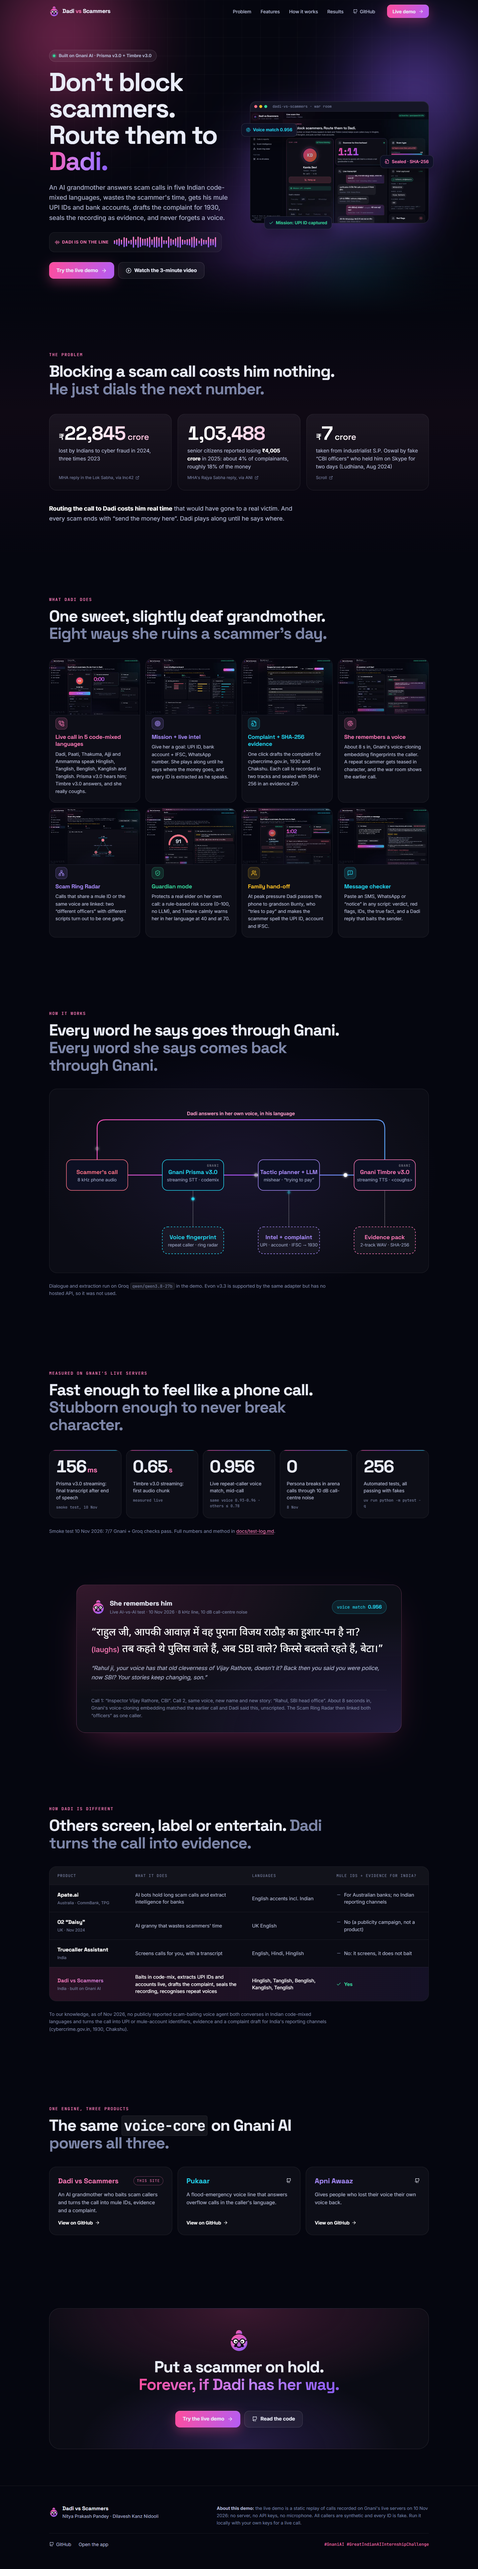
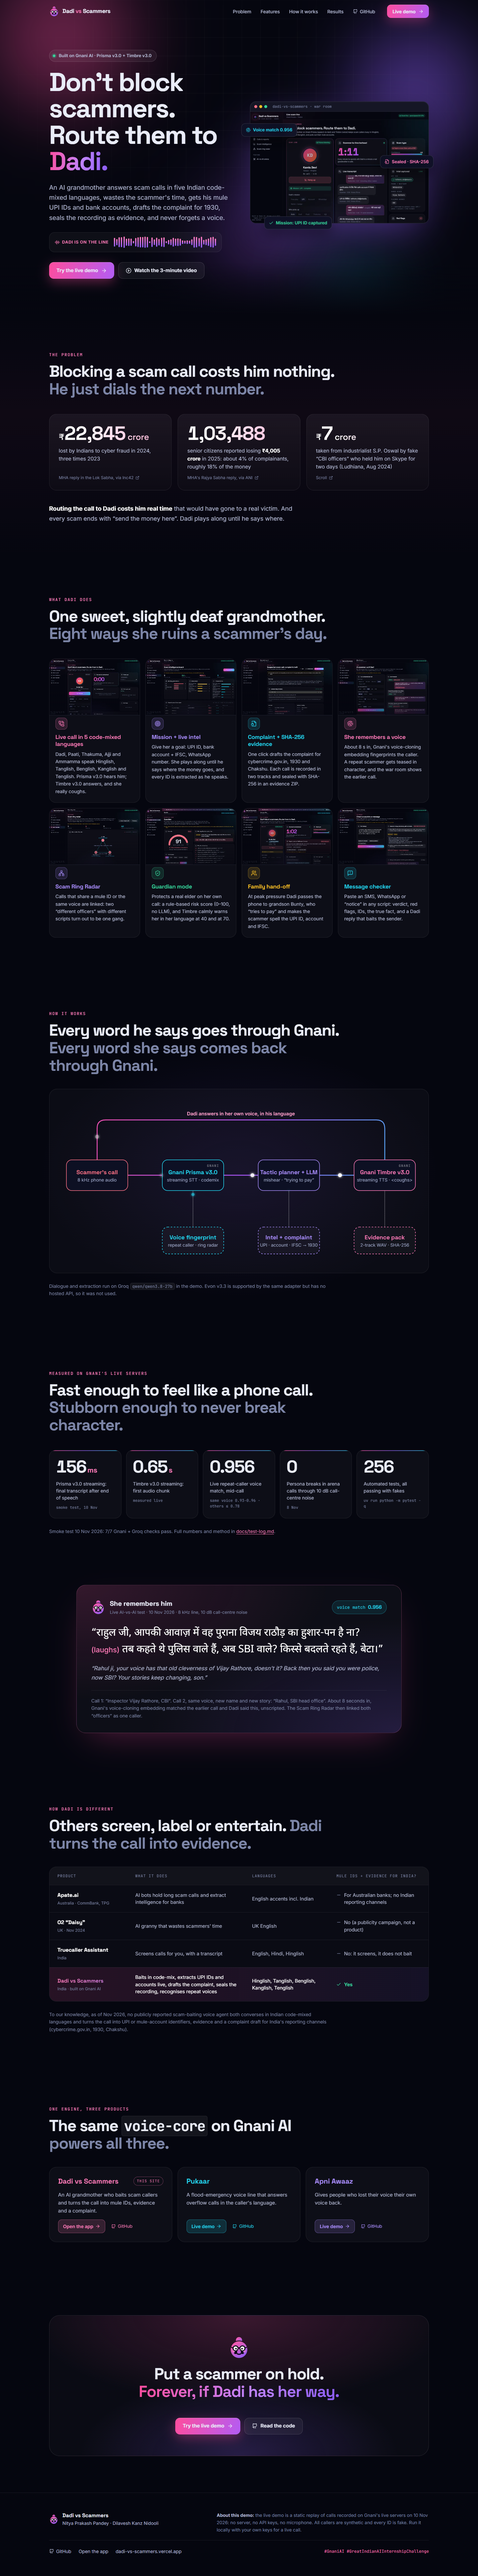
feat(landing): live demo links for Dadi, Pukaar and Apni Awaaz with GitHub beside each, absolute Open Graph image URL

diff --git a/frontend/src/landing/Landing.jsx b/frontend/src/landing/Landing.jsx
@@ -7,7 +7,7 @@ import {
   Network, PhoneCall, ShieldCheck, Target, Users, Check, Minus,
 } from "lucide-react";
 import { countUp, onceVisible, reducedMotion, revealOnScroll } from "../motion";
-import { APP_HREF, AWAAZ_URL, PUKAAR_URL, REPO_URL, VIDEO_URL } from "./links";
+import { APP_HREF, AWAAZ_REPO, AWAAZ_URL, DADI_URL, PUKAAR_REPO, PUKAAR_URL, REPO_URL, VIDEO_URL } from "./links";
 import Pipeline from "./Pipeline";
 import "../landing.css";
 
@@ -315,9 +315,9 @@ function Compare() {
 function Engine() {
   const ref = useReveal({ gap: 90 });
   const items = [
-    { name: "Dadi vs Scammers", text: "An AI grandmother who baits scam callers and turns the call into mule IDs, evidence and a complaint.", href: REPO_URL, tag: "this site", tone: "pink" },
-    { name: "Pukaar", text: "A flood-emergency voice line that answers overflow calls in the caller's language.", href: PUKAAR_URL, tone: "cyan" },
-    { name: "Apni Awaaz", text: "Gives people who lost their voice their own voice back.", href: AWAAZ_URL, tone: "violet" },
+    { name: "Dadi vs Scammers", text: "An AI grandmother who baits scam callers and turns the call into mule IDs, evidence and a complaint.", live: APP_HREF, liveLabel: "Open the app", repo: REPO_URL, tag: "this site", tone: "pink" },
+    { name: "Pukaar", text: "A flood-emergency voice line that answers overflow calls in the caller's language.", live: PUKAAR_URL, repo: PUKAAR_REPO, tone: "cyan" },
+    { name: "Apni Awaaz", text: "Gives people who lost their voice their own voice back.", live: AWAAZ_URL, repo: AWAAZ_REPO, tone: "violet" },
   ];
   return (
     <section className="l-sec" id="engine" ref={ref}>
@@ -326,11 +326,14 @@ function Engine() {
         <h2 className="l-h2" data-reveal>The same <code>voice-core</code> on Gnani AI <span className="l-dim">powers all three.</span></h2>
         <div className="l-engine">
           {items.map((p) => (
-            <a className={`l-prod t-${p.tone}`} key={p.name} href={p.href} target="_blank" rel="noreferrer" data-reveal>
-              <span className="l-prod-top"><b>{p.name}</b>{p.tag ? <em>{p.tag}</em> : <Github size={16} />}</span>
+            <div className={`l-prod t-${p.tone}`} key={p.name} data-reveal>
+              <span className="l-prod-top"><b>{p.name}</b>{p.tag && <em>{p.tag}</em>}</span>
               <span className="l-prod-text">{p.text}</span>
-              <span className="l-prod-go">View on GitHub <ArrowRight size={15} /></span>
-            </a>
+              <span className="l-prod-links">
+                <a className="l-prod-go" href={p.live} {...(p.live.startsWith("http") ? { target: "_blank", rel: "noreferrer" } : {})}>{p.liveLabel || "Live demo"} <ArrowRight size={15} /></a>
+                <a className="l-prod-gh" href={p.repo} target="_blank" rel="noreferrer"><Github size={14} /> GitHub</a>
+              </span>
+            </div>
           ))}
         </div>
       </div>
@@ -414,6 +417,7 @@ export default function Landing() {
           <div className="l-foot-row">
             <a href={REPO_URL} target="_blank" rel="noreferrer"><Github size={15} /> GitHub</a>
             <a href={APP_HREF}>Open the app</a>
+            <a href={DADI_URL}>{DADI_URL.replace(/^https:\/\/|\/$/g, "")}</a>
             <span className="l-tags">#GnaniAI #GreatIndianAIInternshipChallenge</span>
           </div>
         </div>

diff --git a/frontend/index.html b/frontend/index.html
@@ -9,14 +9,15 @@
     <meta property="og:site_name" content="Dadi vs Scammers" />
     <meta property="og:title" content="Dadi vs Scammers: don't block scammers, route them to Dadi" />
     <meta property="og:description" content="An AI grandmother on Gnani Prisma v3.0 + Timbre v3.0 baits scam callers in Hinglish, Tanglish, Benglish, Kanglish and Tenglish, gets their mule UPI IDs, drafts the 1930 complaint and never forgets a voice." />
-    <meta property="og:image" content="/og-banner.png" />
+    <meta property="og:url" content="https://dadi-vs-scammers.vercel.app/" />
+    <meta property="og:image" content="https://dadi-vs-scammers.vercel.app/og-banner.png" />
     <meta property="og:image:width" content="1280" />
     <meta property="og:image:height" content="400" />
     <meta property="og:image:alt" content="Dadi vs Scammers banner" />
     <meta name="twitter:card" content="summary_large_image" />
     <meta name="twitter:title" content="Dadi vs Scammers: don't block scammers, route them to Dadi" />
     <meta name="twitter:description" content="An AI grandmother that wastes scammers' time in five Indian code-mixed languages and turns the call into mule IDs, evidence and a complaint. Built on Gnani AI." />
-    <meta name="twitter:image" content="/og-banner.png" />
+    <meta name="twitter:image" content="https://dadi-vs-scammers.vercel.app/og-banner.png" />
     <meta name="theme-color" content="#05060f" />
     <link rel="icon" href="/favicon.ico" sizes="48x48" />
     <link rel="icon" href="/icons/icon.svg" type="image/svg+xml" />

diff --git a/frontend/src/landing.css b/frontend/src/landing.css
@@ -186,8 +186,13 @@
 .l-prod-top b { font-family: var(--font-display); font-size: 21px; color: var(--c); }
 .l-prod-top em { font-style: normal; font-size: 11px; font-family: var(--font-mono); text-transform: uppercase; letter-spacing: .1em; padding: 4px 9px; border-radius: 999px; border: 1px solid color-mix(in srgb, var(--c) 40%, transparent); color: var(--c); }
 .l-prod-text { font-size: 15px; line-height: 1.6; color: var(--text-2); }
-.l-prod-go { margin-top: auto; display: inline-flex; align-items: center; gap: 6px; font-size: 14px; font-weight: 600; color: #fff; }
-.l-prod:hover .l-prod-go svg { transform: translateX(3px); }
+.l-prod-links { margin-top: auto; display: flex; flex-wrap: wrap; align-items: center; gap: 10px 18px; }
+.l-prod-go { display: inline-flex; align-items: center; gap: 6px; font-size: 14px; font-weight: 650; color: #fff; padding: 9px 14px; border-radius: 11px;
+  background: color-mix(in srgb, var(--c) 16%, transparent); border: 1px solid color-mix(in srgb, var(--c) 40%, transparent); transition: background .2s, transform .2s; }
+.l-prod-go:hover { background: color-mix(in srgb, var(--c) 26%, transparent); transform: translateY(-1px); }
+.l-prod-go:hover svg { transform: translateX(3px); }
+.l-prod-gh { display: inline-flex; align-items: center; gap: 6px; font-size: 13.5px; color: var(--text-2); }
+.l-prod-gh:hover { color: #fff; }
 .l-prod-go svg { transition: transform .2s; }
 
 /* closing + footer */

diff --git a/frontend/src/landing/links.js b/frontend/src/landing/links.js
@@ -1,7 +1,13 @@
 // Every outbound link on the landing page lives here, so the lead can swap in the real video / product URLs in one place.
-export const REPO_URL = "https://github.com/nitya-prakash-pandey-2005/dadi-vs-scammers";
+const GH = "https://github.com/nitya-prakash-pandey-2005";
+export const REPO_URL = `${GH}/dadi-vs-scammers`;
 // the 3-minute video: until the final link is known, point at the README (it carries the video link)
 export const VIDEO_URL = `${REPO_URL}#readme`;
-export const PUKAAR_URL = "https://github.com/nitya-prakash-pandey-2005/pukaar";
-export const AWAAZ_URL = "https://github.com/nitya-prakash-pandey-2005/apni-awaaz";
+
+// live demos (Vercel) and their GitHub repos
+export const DADI_URL = "https://dadi-vs-scammers.vercel.app/";
+export const PUKAAR_URL = "https://pukaar-snowy.vercel.app/";
+export const PUKAAR_REPO = `${GH}/pukaar`;
+export const AWAAZ_URL = "https://apni-awaaz-kappa.vercel.app/";
+export const AWAAZ_REPO = `${GH}/apni-awaaz`;
 export const APP_HREF = "#/app";
